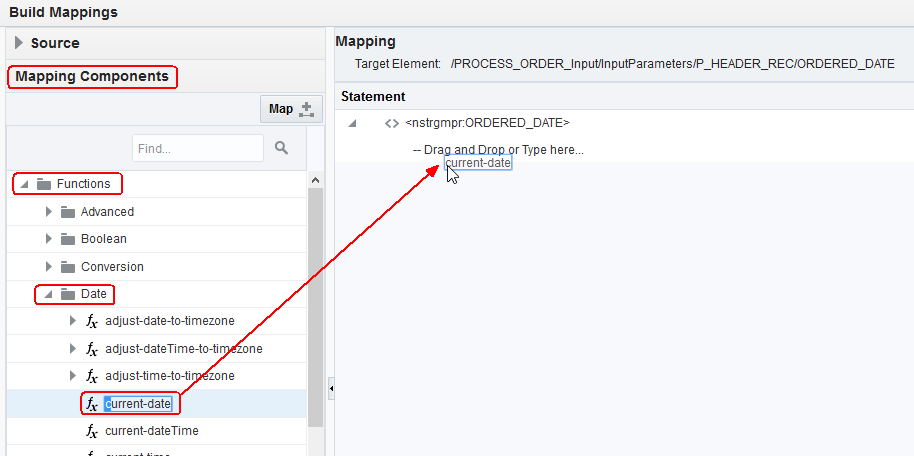
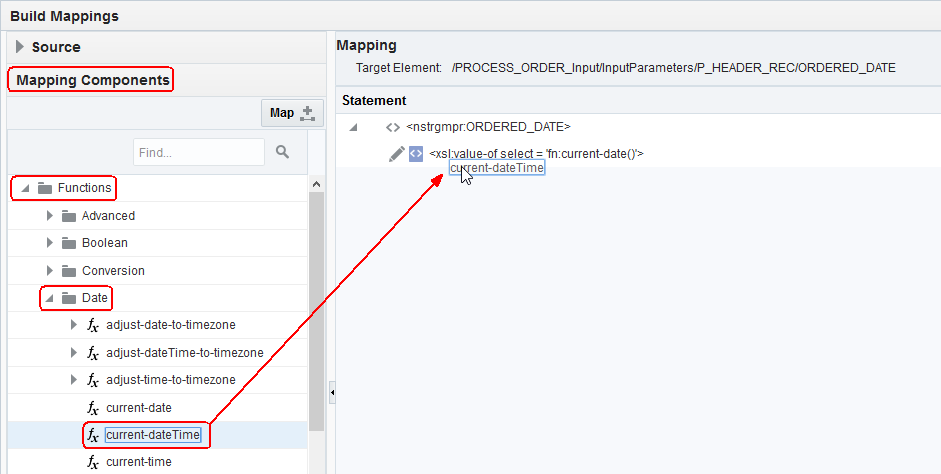
Updated Lab 400

diff --git a/ics-dev-workshop/ics400.md b/ics-dev-workshop/ics400.md
@@ -405,7 +405,7 @@ There are a total of 27 target variables that need to be mapped to successfully 
 
 **2.6.8** Click and expand *Functions*, then click and expand *Date* functions.
 
-**2.6.9** Drag and Drop the function `current-date` into the area labeled `-- Drag and Drop or Type here...`
+**2.6.9** Drag and Drop the function `current-dateTime` into the area labeled `-- Drag and Drop or Type here...`
 
 ![](images/400/image045.png)
 
@@ -482,7 +482,7 @@ There are a total of 27 target variables that need to be mapped to successfully 
   <tr><td>$getCustomerBillingInfo -> getCustomerBillingInfoOutputCollection -> getCustomerBillingInfoOutput -> SITE_USE_ID</td><td>INVOICE_TO_ORG_ID</td></tr>
   <tr><td>createOrderRequest -> Qty</td><td>ORDERED_QUANTITY</td></tr>
   <tr><td>$EBS_Price_List_ID</td><td>PRICE_LIST_ID</td></tr>
-  <tr><td>Mapping Components -> Functions -> Date -> current-date()</td><td>PRICING_DATE</td></tr>
+  <tr><td>Mapping Components -> Functions -> Date -> current-dateTime()</td><td>PRICING_DATE</td></tr>
   <tr><td>constant: <em>204</em> (no quotes)</td><td>SHIP_FROM_ORG_ID</td></tr>
   <tr><td>$getCustomerShipToInfo -> getCustomerShipToOutputCollection -> getCustomerShipToInfoOutput -> SITE_USE_ID</td><td>SHIP_TO_ORG_ID</td></tr>
   <tr><td>createOrderRequest -> Price</td><td>UNIT_SELLING_PRICE</td></tr>
@@ -652,25 +652,25 @@ In Lab 300, we used a temporary mapping of the return values to verify the outpu
 
 ![](images/300/image089.png)
 
-**3.3** In the **New SOAP Project** dialog window, paste the WSDL URL into the **Initial WSDL** window and give a meaningful **Project Name** such as _User03 Create EBS Order_.  Keep the checkbox selected for **create sample requests for all operations?**.  Click on the **OK** button after you've initialized the settings for your new SoapUI SOAP project.
+**3.3** In the **New SOAP Project** dialog window, paste the WSDL URL into the **Initial WSDL** window and give a meaningful **Project Name** such as _User03 Create EBS Order Lab 400_.  Keep the checkbox selected for **create sample requests for all operations?**.  Click on the **OK** button after you've initialized the settings for your new SoapUI SOAP project.
 
-![](images/300/image090.png)
+![](images/400/image075.png)
 
 **3.4** The new SOAP Project will appear in the left-hand navigation.
 
 **3.5** Expand the **createOrder** operation by clicking on it, then open the auto-generated sample request **Request 1** by double-clicking on it.  An empty request payload will be generated.
 
-![](images/300/image091.png)
+![](images/400/image076.png)
 
-**3.6** In the request payload, replace the question marks with the following test values:
+**3.6** In the request payload, as in Lab 300, replace the question marks with the following test values:
 
 - **AccountName**: _A. C. Networks_
-- **Comment**: _Lab 300 request from SoapUI_
+- **Comment**: _Lab 400 request from SoapUI_
 - **ItemID**: _2155_
 - **Qty**: _1_
 - **Price**: _3333_
 
-![](images/300/image092.png)
+![](images/400/image077.png)
 
 **3.7** Next we need to add the authorization credentials so ICS will allow the request from SoapUI.  ICS uses basic username/password authentication.
 
@@ -714,8 +714,8 @@ In Lab 300, we used a temporary mapping of the return values to verify the outpu
 
 **3.19** The right side of the **Request 1** SoapUI window will display the results of the ICS integration call.
 
-**3.20** The return payload of the ICS integration will show both the _Billing PARTY_ID = XX_ and _Shipping SITE_USE_ID = YY_ values which were looked up in the two EBS Database calls.
+**3.20** The return payload of the ICS integration will show the Order Number and the status of `S` for _Success_.
 
 ![](images/300/image109.png)
 
-You have now completed Lab 300 of the ICS Developer Workshop.  In the next lab, we will modify the orchestration we just created by adding a call to an EBS API using the EBS Adapter.
+You have now completed the final lab of the ICS Developer Workshop.  Congratulations, you should now have a much better understanding of how to work with ICS to create complex integrations.
